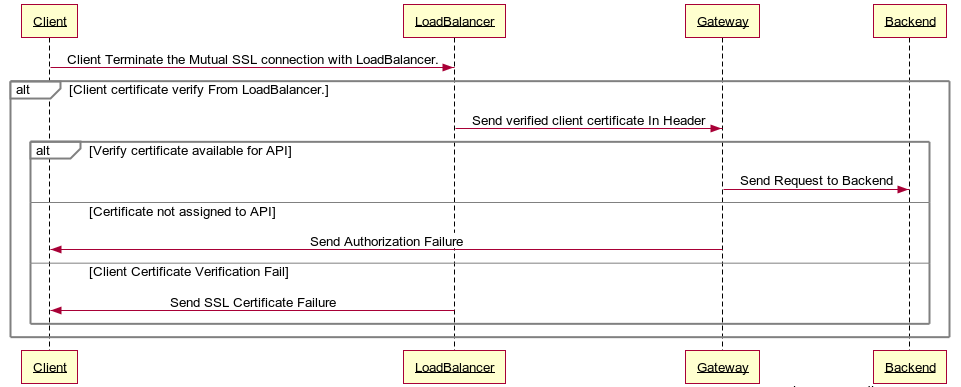
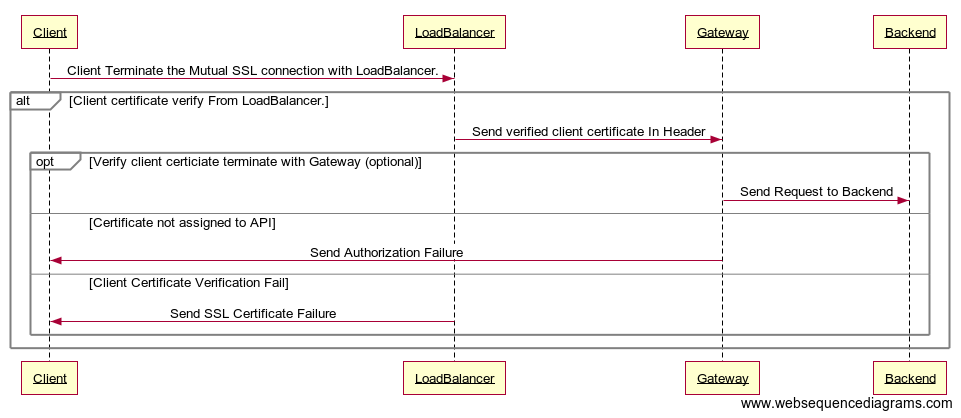
add reviewed fixes

diff --git a/en/docs/learn/api-security/api-authentication/secure-apis-using-mutual-ssl.md b/en/docs/learn/api-security/api-authentication/secure-apis-using-mutual-ssl.md
@@ -46,22 +46,22 @@ Listed below are the known limitations for this feature.
 -   Resource-level security will not be applicable to the APIs that are only protected with Mutual SSL.
 
 -   Scope-level security will not be applicable to the APIs that are only protected with Mutual SSL.
-### Invoke an API secured with Mutual SSL though SSL Terminated Load Balancer.
 
-When SSL Termination of invocation request happens at the loadbalancer, following prerequisites need to be met from the load balancer.
+### Handling MTLS when SSL is terminated by the loadbalancer/reverse proxy.
+
+When SSL Termination of API requests happens at the loadbalancer/reverse proxy, the following prerequisites need to be met from the load balancer.
 
 -   Terminate the mutual SSL connection from client
--   Offload the Terminated SSL certficate from client into the Gateway in a Header.(eg: https://nginx.org/en/docs/http/ngx_http_ssl_module.html#ssl_client_certificate)
+-   Pass the client SSL certificate to the Gateway in an HTTP Header. ( eg: https://nginx.org/en/docs/http/ngx_http_ssl_module.html#ssl_client_certificate )
 
-Below diagram show how MutualSSL works in such environment.
+The below diagram shows how MutualSSL works in such environment.
 
 ![]({{base_path}}/assets/img/learn/mtls-loadbalancer.png)
 
-Default WSO2 API Manager supports to retrieve Certificate from **X-WSO2-CLIENT-CERTIFICATE** header. In order to change the retrival header,
-follow the below instructions.
+By default, the WSO2 API Manager retrieves the client certificate from the **X-WSO2-CLIENT-CERTIFICATE** HTTP header. In order to change the header,
 
 -  Navigate to the `<API-M_HOME>/repository/conf/deployment.toml` file.
--  Configure the *certificate_header* under the [apimgt.mutual_ssl]. 
+-  Configure the *certificate_header* under the [apimgt.mutual_ssl] configuration.
 
      ```
      [apimgt.mutual_ssl]
